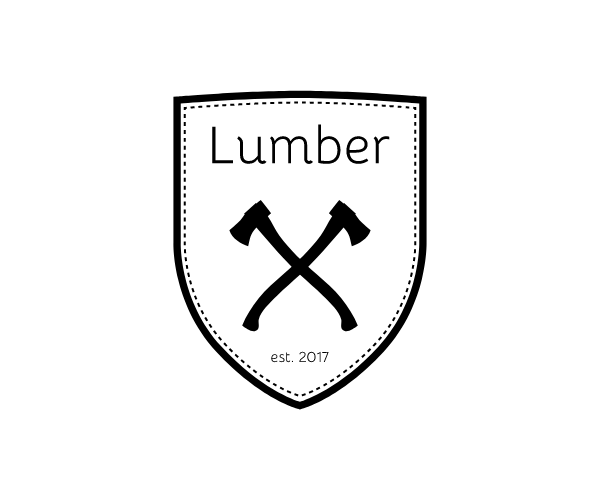
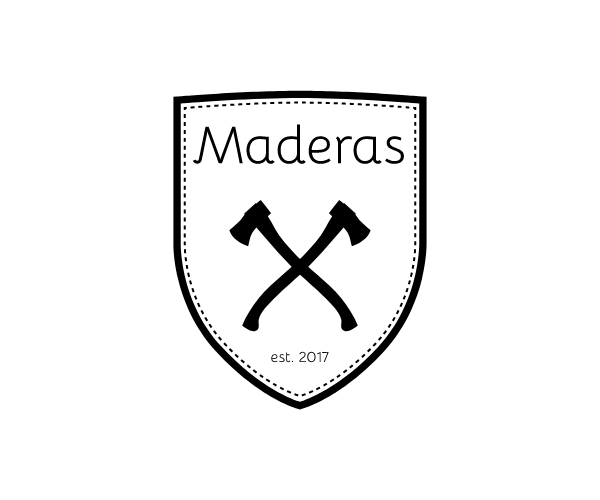
updated name to Maderas

Changed region(s): [[0.33, 0.24, 0.69, 0.33]]

diff --git a/README.md b/README.md
@@ -1,4 +1,4 @@
-# The Lumber Starter Theme
+#  Maderas - A WordPress starter theme
 
 ![Super Sweet Logo](screenshot.png)
 
